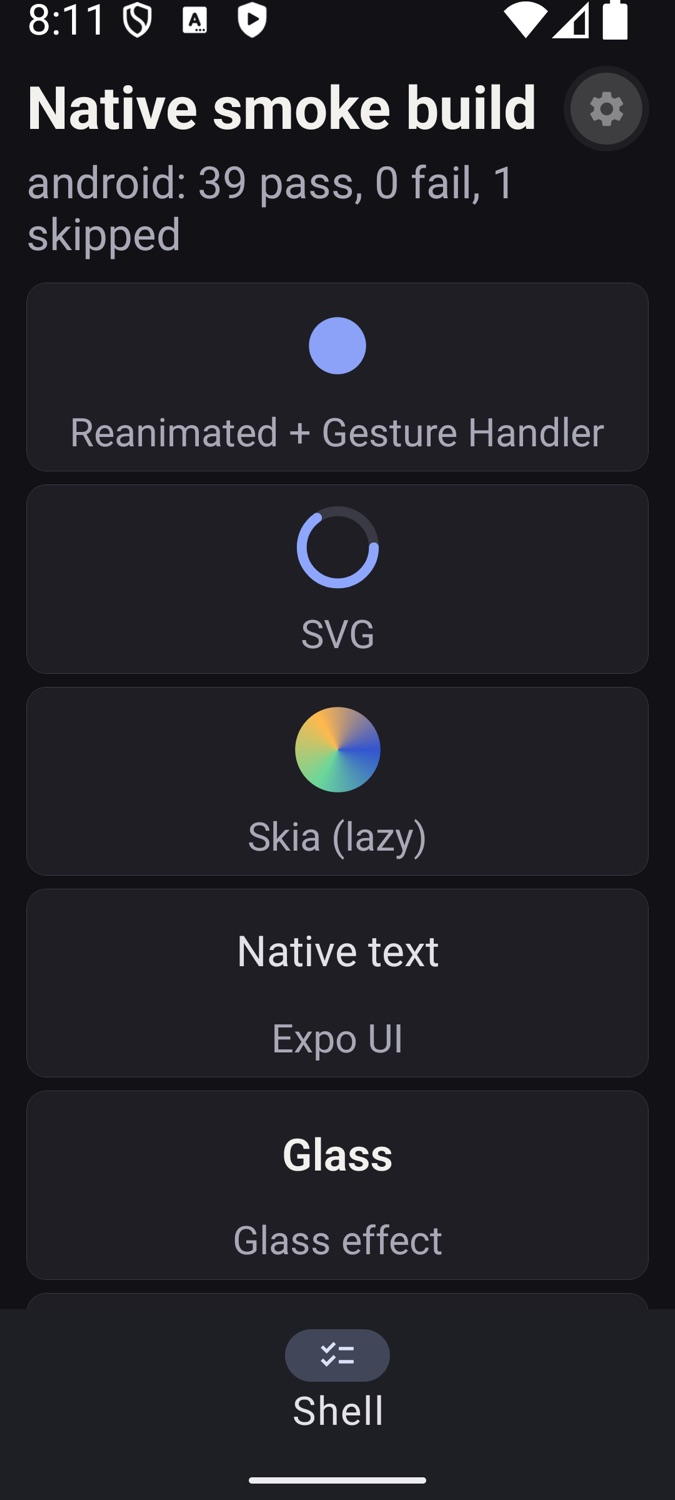
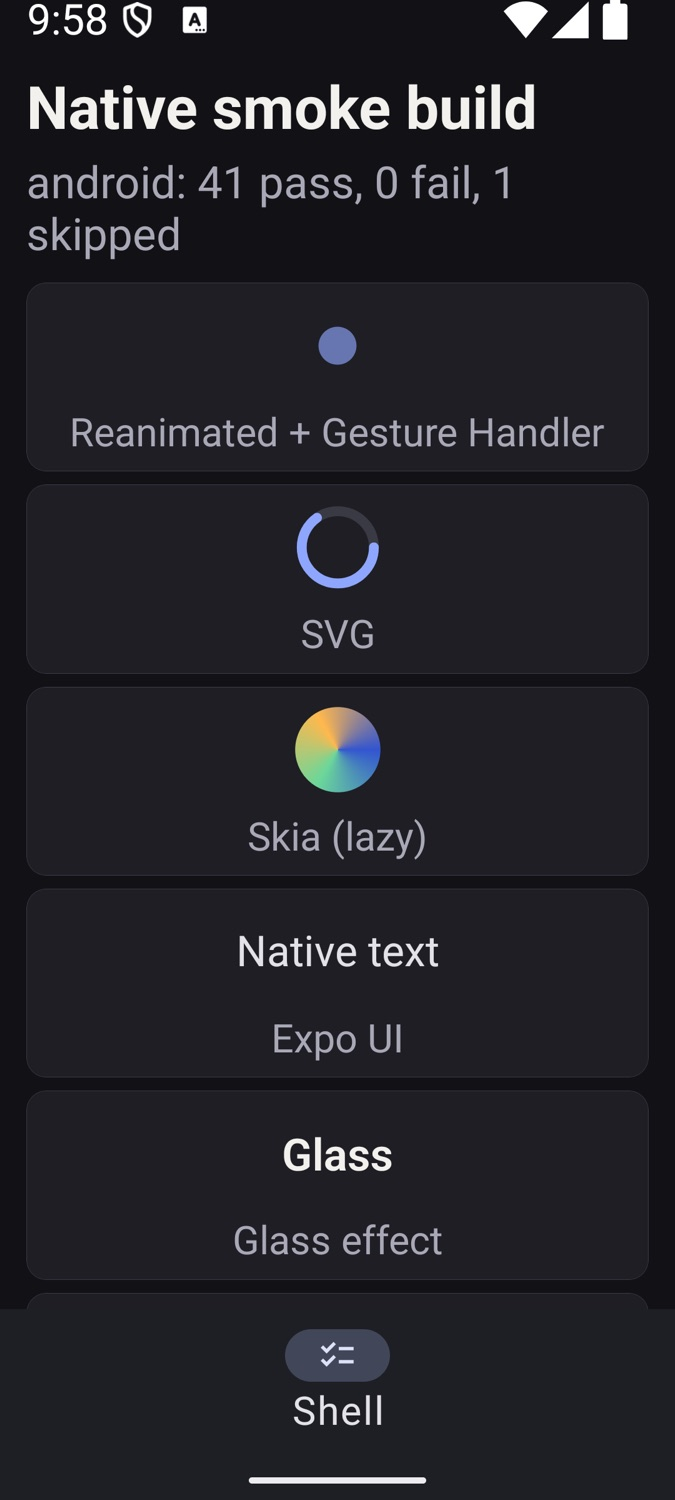
chore(mobile): take Expo's new pin and record the release builds of the merged code (FND-05)
expo-web-browser moves to ~58.1.0, the smoke report is logged one line per
check, and the evidence, ADR 0006 and the plan now describe the release
builds of 2026-11-23 on iOS and Android and the web export.

diff --git a/apps/mobile/src/smoke/smoke-screen.tsx b/apps/mobile/src/smoke/smoke-screen.tsx
@@ -23,15 +23,12 @@ export function SmokeScreen() {
       ])
       .then((finished) => {
         // The same report as text, for the build evidence: Metro's log in a debug build,
-        // `adb logcat -s ReactNativeJS` or Console.app in a release build.
-        console.info(
-          [
-            `[smoke] ${currentPlatform}: ${summarise(finished)}`,
-            ...finished.map(
-              ({ status, label, detail }) => `[smoke] ${status} | ${label} | ${detail}`,
-            ),
-          ].join('\n'),
-        );
+        // `adb logcat -s ReactNativeJS` or the simulator's log stream in a release build.
+        // One line per call, because iOS cuts a log message off at 1,024 bytes.
+        console.info(`[smoke] ${currentPlatform}: ${summarise(finished)}`);
+        for (const { status, label, detail } of finished) {
+          console.info(`[smoke] ${status} | ${label} | ${detail}`);
+        }
         if (current) setResults(finished);
       })
       .catch(() => undefined);

diff --git a/docs/plans/FND-05-evidence/README.md b/docs/plans/FND-05-evidence/README.md
@@ -1,6 +1,6 @@
 # FND-05 (local half): build evidence
 
-Collected on 2026-11-15 on one Mac (Apple silicon, macOS 27.2). Nothing here used an account, a key or a secret.
+Collected on one Mac (Apple silicon, macOS 27.2) in two sittings: 2026-11-15 and, after `main` was merged in, 2026-11-23. Nothing here used an account, a key or a secret.
 
 | | |
 |---|---|
@@ -13,60 +13,69 @@ Collected on 2026-11-15 on one Mac (Apple silicon, macOS 27.2). Nothing here use
 
 ## Result
 
-| Build | Command | Result | Smoke report |
-|---|---|---|---|
-| iOS, debug | `expo run:ios` | `› Build Succeeded` | 40 pass, 0 fail, 0 skipped: [`smoke-ios-debug.txt`](smoke-ios-debug.txt) |
-| Android, debug | `expo run:android --variant debug` | `BUILD SUCCESSFUL in 6m 19s` | 39 pass, 0 fail, 1 skipped: [`smoke-android-debug.txt`](smoke-android-debug.txt) |
-| Android, release, all ABIs | `expo run:android --variant release` | `BUILD SUCCESSFUL in 12m 16s`, 187 MB APK | 16 KB check below |
-| Android, release, arm64 | `./gradlew :app:assembleRelease -PreactNativeArchitectures=arm64-v8a` | `BUILD SUCCESSFUL in 38s` (incremental), 64 MB APK | 39 pass, 0 fail, 1 skipped, Metro stopped: [`smoke-android-release.txt`](smoke-android-release.txt) |
-| Web | `pnpm --filter @repo/mobile web:export` | `Exported: dist` (server output) | 31 pass, 0 fail, 9 skipped, served with `expo serve`: [`smoke-web.txt`](smoke-web.txt) |
+The release builds and the web export are of the pull request's final code. Each started from `expo prebuild --clean`.
 
-The one skip on Android is Sign in with Apple (iOS only). The nine on web are native-only libraries.
+| Build | Date | Command | Result | Smoke report |
+|---|---|---|---|---|
+| iOS, release, simulator | 11-23 | `expo run:ios --configuration Release` | `› Build Succeeded` | 42 pass, 0 fail, 0 skipped: [`smoke-ios-release.txt`](smoke-ios-release.txt) |
+| Android, release, arm64 | 11-23 | `./gradlew :app:assembleRelease -PreactNativeArchitectures=arm64-v8a` | `BUILD SUCCESSFUL in 11m 1s`, 64 MB APK | 41 pass, 0 fail, 1 skipped: [`smoke-android-release.txt`](smoke-android-release.txt) |
+| Web | 11-23 | `pnpm --filter @repo/mobile web:export`, then `expo serve` | `Exported: dist` (server output) | 33 pass, 0 fail, 9 skipped: [`smoke-web.txt`](smoke-web.txt) |
+| iOS, debug (development build) | 11-15 | `expo run:ios` | `› Build Succeeded` | 40 pass, 0 fail, 0 skipped: [`smoke-ios-debug.txt`](smoke-ios-debug.txt) |
+| Android, debug (development build) | 11-15 | `expo run:android --variant debug` | `BUILD SUCCESSFUL in 6m 19s` | 39 pass, 0 fail, 1 skipped: [`smoke-android-debug.txt`](smoke-android-debug.txt) |
+| Android, release, all ABIs | 11-15 | `expo run:android --variant release` | `BUILD SUCCESSFUL in 12m 16s`, 187 MB APK | 16 KB check below |
 
-`expo install --check`: "Dependencies are up to date". `expo-doctor`: "20/20 checks passed. No issues detected!". `pnpm verify`: green (28 Vitest tests, 13 Jest tests).
+Both release apps were launched with no Metro server running. The one skip on Android is Sign in with Apple (iOS only); the nine on web are native-only libraries.
+
+The debug builds predate the merge of `main`. Since then the app gained two checks (the quiz-engine fixtures and the game-rules dates, which is why the counts differ by two), took Expo's new pin for `expo-web-browser` (58.0.8 to 58.1.0), and moved Better Auth and i18next back one or two patches (see `versions.md`). The development client itself was not rebuilt after the merge.
+
+`expo install --check` (11-23): "Dependencies are up to date". `expo-doctor` (11-23): "20/20 checks passed. No issues detected!".
+
+## Shared packages on Hermes (asked for by the PM)
+
+Read from the release builds, so this is Hermes bytecode with no dev server. Identical on iOS and Android:
+
+| Check | Result |
+|---|---|
+| `runSharedFixtures()` from `@repo/quiz-engine/fixtures` (ENG-02) | `127 fixtures ran, 0 failed` |
+| `localDateOf` from `@repo/game-rules` (ENG-03, ADR 0005) | `2026-01-02 2026-06-16 2026-03-07 2026-03-08 2026-03-08 2026-03-09 2026-10-31 2026-11-01 2026-11-01 2026-11-02; unknown zone: RangeError; empty zone: RangeError` |
+| `Intl.DateTimeFormat('en-US', { timeZone, year, month: '2-digit', day: '2-digit' })` | `Kathmandu 01/02/2026, Los Angeles 12/31/2025` |
+| Regex literals with the `u` flag: `\p{L}`, `\p{M}`, `\p{Z}`, `\p{Cc}`, `\p{Cf}`, `\p{Cs}` | pass (each matches its sample and rejects `1`) |
+| `Object.hasOwn`, `Array.prototype.at`, `'é'.normalize('NFD').length === 2` | pass |
+| zod 4.6.7: `z.strictObject` and `z.discriminatedUnion` | pass (accepts the valid value, rejects an unknown key and an unknown discriminator) |
+
+The ten dates are, in order: Kathmandu (a 45-minute offset) at 18:30 UTC on 1 January; Kiritimati (+14:00) from ADR 0005's own example; then the minute before and the minute of local midnight in Los Angeles on each side of the 8 March and 1 November 2026 clock changes. They match Node 26.13.1 exactly (`src/smoke/hermes-probes.test.ts` runs the same probes on Node).
+
+One thing Hermes does not have: `Intl.PluralRules` (and `Intl.Locale`). The i18n row reads "PluralRules polyfilled" on both native platforms and "built in" on web.
 
 ## Screenshots
 
 | | Light, default text | Dark, largest text |
 |---|---|---|
-| iOS (debug build) | [`ios-light.jpg`](ios-light.jpg) | [`ios-dark-largest.jpg`](ios-dark-largest.jpg) (`accessibility-extra-extra-extra-large`) |
-| Android | [`android-light.jpg`](android-light.jpg) (release build, no Metro) | [`android-dark-largest.jpg`](android-dark-largest.jpg) (debug build, font scale 2.0) |
+| iOS (release build) | [`ios-light.jpg`](ios-light.jpg) | [`ios-dark-largest.jpg`](ios-dark-largest.jpg) (`accessibility-extra-extra-extra-large`) |
+| Android (release build) | [`android-light.jpg`](android-light.jpg) | [`android-dark-largest.jpg`](android-dark-largest.jpg) (font scale 2.0) |
 | Web | [`web.jpg`](web.jpg) (480 px wide) | |
 
 [`android-expo-observe-without-project-id.jpg`](android-expo-observe-without-project-id.jpg) is the failure ADR 0009 records.
 
-The reports are the app's own output: the placeholder screen runs one check per library and logs the result (`[smoke] …`). They were read from Metro's log (debug builds), `adb logcat -s ReactNativeJS` (release build) and the browser console (web).
+The reports are the app's own output: the placeholder screen runs one check per library and logs each result (`[smoke] …`). They were read from `adb logcat -s ReactNativeJS` (Android release), `xcrun simctl spawn booted log stream` (iOS release), Metro's log (debug builds) and the browser console (web).
 
 ## Android 16 KB page size
 
 `apps/mobile/scripts/check-page-size.sh` runs the two checks Android's page-size guide gives: `zipalign -c -P 16 -v 4`, and the alignment of every `LOAD` segment in every 64-bit library (`llvm-objdump -p`, 2**14 or more).
 
-On the all-ABI release APK, full output in [`page-size-check.txt`](page-size-check.txt):
+On the release APK that was launched (11-23, arm64), full output in [`page-size-check.txt`](page-size-check.txt):
 
 ```
-== 1. zipalign -c -P 16 -v 4 ==
-1795 entries OK
-Verification successful
+PASS: all 38 64-bit libraries are 16 KB aligned, and the APK is zip-aligned for 16 KB pages
+```
 
+On the all-ABI release APK (11-15, so before the merge; it adds the x86_64 libraries), full output in [`page-size-check-all-abis-2026-11-15.txt`](page-size-check-all-abis-2026-11-15.txt):
+
+```
 PASS: all 76 64-bit libraries are 16 KB aligned, and the APK is zip-aligned for 16 KB pages
 ```
 
-The arm64-only APK that was launched passes the same check (38 libraries). The emulator itself has 4 KB pages (`adb shell getconf PAGE_SIZE` → `4096`), so nothing here ran on a 16 KB device: see "Not proven".
-
-## Hermes probes (asked for by the PM for ENG-01, ENG-02 and ENG-03)
-
-Same result on iOS (debug) and Android (debug and release), both on Hermes:
-
-| Probe | Result |
-|---|---|
-| Regex literals with the `u` flag: `\p{L}`, `\p{M}`, `\p{Z}`, `\p{Cc}`, `\p{Cf}`, `\p{Cs}` | pass (each matches its sample and rejects `1`) |
-| `Object.hasOwn` | pass |
-| `Array.prototype.at` | pass |
-| `'é'.normalize('NFD').length === 2` | pass |
-| zod 4.6.7: `z.strictObject` and `z.discriminatedUnion` | pass (accepts the valid value, rejects an unknown key and an unknown discriminator) |
-| `Intl.DateTimeFormat('en-US', { timeZone, year, month: '2-digit', day: '2-digit' })` | pass: `Kathmandu 01/02/2026, Los Angeles 12/31/2025` |
-
-One thing Hermes does not have: `Intl.PluralRules` (and `Intl.Locale`). The i18n row reads "PluralRules polyfilled" on both native platforms and "built in" on web.
+The emulator itself has 4 KB pages (`adb shell getconf PAGE_SIZE` gives `4096`), so nothing here ran on a 16 KB device: see "Not proven".
 
 ## Things the build commands did that the plan didn't expect
 
@@ -75,15 +84,19 @@ Each is either fixed in this pull request or recorded in an ADR.
 - **`expo-observe` crashes Android at start-up without an EAS project id.** Removed (ADR 0009).
 - **`expo run:ios` refuses to build for a simulator** when the app has the Sign in with Apple entitlement and the Mac has no signing certificate ("No code signing certificates are available to use"). The entitlement is stripped until the Apple account exists (ADR 0010).
 - **A plain Gradle release build failed** at `:app:createBundleReleaseJsAndAssets` with "Cannot find module 'babel-preset-expo'". Under pnpm's isolated `node_modules` the app can only resolve its own dependencies, and `babel.config.js` names that preset. `expo run:android` hides this because Expo CLI bundles the JavaScript itself. EAS Build runs plain Gradle, so it would have failed there. Fixed by making `babel-preset-expo` a dev dependency of the app.
+- **Gradle doesn't rebuild the JavaScript bundle when only a dependency changes.** After a version change in `node_modules` the bundle task reported `UP-TO-DATE` and the APK kept the old code. Run `expo prebuild --clean`, or Gradle with `--rerun-tasks`, after changing a dependency.
+- **pnpm wrote release-age exemptions into `pnpm-workspace.yaml` by itself** for two libraries published the same day. Removed (ADR 0006).
+- **Expo's pins moved between the two sittings**: `expo install --check` asked for `expo-web-browser` ~58.1.0 on 11-23. Taken with `expo install --fix` before the release builds.
 - **`expo run:android` builds and installs, then fails to launch**: it looks for `com.dailyquizshell` (derived from the slug) and not the configured `dev.dailyquiz.shell`. Launching by hand works: `adb shell am start -a android.intent.action.VIEW -d "dailyquiz://expo-development-client/?url=http%3A%2F%2Flocalhost%3A8081"` after `adb reverse tcp:8081 tcp:8081`.
-- **Installing on the emulator failed twice with `INSTALL_FAILED_INSUFFICIENT_STORAGE`**: the emulator's data partition had about 540 MB free. The debug APK installed after the old copy was removed; the 187 MB all-ABI release APK did not fit, which is why the launched release APK is arm64-only.
+- **Installing on the emulator failed twice with `INSTALL_FAILED_INSUFFICIENT_STORAGE`**: its data partition had about 540 MB free. The 187 MB all-ABI release APK did not fit, which is why the launched release APK is arm64-only.
+- **iOS cuts a log message off at 1,024 bytes**, so the smoke report is logged one line per check.
 - **Gradle downloaded Android platform 37 and build-tools 37.0.0** into the SDK folder by itself.
-- The first attempts lost about fifteen minutes to a network outage (Gradle's distribution download timed out twice; a CocoaPods download stalled). No code was involved.
 
 ## Not proven
 
 - A launch on a 16 KB-page device or emulator. It needs the image `system-images;android-36;google_apis_ps16k;arm64-v8a`, which is the owner's to install.
 - A physical iPhone or Android phone.
-- An iOS release build. The iOS JavaScript was only run in the debug build.
+- An x86_64 Android build of the final code (the all-ABI build is from 11-15).
+- The development builds on the final code (they are from 11-15).
 - Anything that needs an account: EAS Build, EAS Update, `expo-observe`, Sentry and PostHog reporting, sign-in with Apple or Google, push tokens.
 - Gesture Handler beyond one pan gesture, and Skia beyond one canvas.

diff --git a/docs/plans/FND-05-evidence/versions.md b/docs/plans/FND-05-evidence/versions.md
@@ -1,8 +1,8 @@
 # FND-05: resolved versions
 
-Generated on 2026-11-15 from `pnpm-lock.yaml` with `pnpm --filter @repo/mobile ls --depth 0 --json`. "Declared" is the range in `apps/mobile/package.json`; "Resolved" is what the lockfile installs.
+Generated on 2026-11-23 from `pnpm-lock.yaml` with `pnpm --filter @repo/mobile ls --depth 0 --json`. "Declared" is the range in `apps/mobile/package.json`; "Resolved" is what the lockfile installs, and what the release builds and the web export of 2026-11-23 were made from.
 
-The native builds in this folder were made from exactly these versions, with two exceptions that hold no native code: the first builds bundled Better Auth 1.7.25 and i18next 27.1.2, which pnpm's one-day minimum release age then rejected (ADR 0006). The Android release build, the web export and the iOS debug run were repeated on the versions below.
+The development builds of 2026-11-15 differ in three packages: `expo-web-browser` 58.0.8 (Expo has since moved its pin), and Better Auth 1.7.25 and i18next 27.1.2, which pnpm's one-day minimum release age rejected (ADR 0006). They also predate the two workspace packages.
 
 ## Dependencies
 
@@ -10,28 +10,30 @@ The native builds in this folder were made from exactly these versions, with two
 |---|---|---|
 | `@better-auth/expo` | `1.7.23` | 1.7.23 |
 | `@expo/metro-runtime` | `~58.0.17` | 58.0.17 |
-| `@expo/ui` | `~58.0.28` | 58.0.28 |
-| `@formatjs/intl-locale` | `^5.4.3` | 5.4.3 |
-| `@formatjs/intl-pluralrules` | `^7.0.4` | 7.0.4 |
+| `@expo/ui` | `~58.0.28` | 58.0.29 |
+| `@formatjs/intl-locale` | `^5.4.3` | 5.5.0 |
+| `@formatjs/intl-pluralrules` | `^7.0.4` | 7.1.0 |
 | `@react-native-google-signin/google-signin` | `17.0.0` | 17.0.0 |
-| `@sentry/react-native` | `~8.28.0` | 8.28.0 |
+| `@repo/game-rules` | `workspace:*` | workspace |
+| `@repo/quiz-engine` | `workspace:*` | workspace |
+| `@sentry/react-native` | `~8.28.0` | 8.28.1 |
 | `@shopify/flash-list` | `2.3.2` | 2.3.2 |
 | `@shopify/react-native-skia` | `2.14.0` | 2.14.0 |
-| `@tanstack/query-async-storage-persister` | `^5.107.1` | 5.107.1 |
-| `@tanstack/react-query` | `^5.107.1` | 5.107.1 |
-| `@tanstack/react-query-persist-client` | `^5.107.1` | 5.107.1 |
+| `@tanstack/query-async-storage-persister` | `^5.107.1` | 5.108.2 |
+| `@tanstack/react-query` | `^5.107.1` | 5.108.2 |
+| `@tanstack/react-query-persist-client` | `^5.107.1` | 5.108.2 |
 | `@xstate/react` | `^6.1.0` | 6.1.0 |
 | `better-auth` | `1.7.23` | 1.7.23 |
-| `expo` | `~58.0.25` | 58.0.25 |
+| `expo` | `~58.0.25` | 58.0.26 |
 | `expo-apple-authentication` | `~58.0.3` | 58.0.3 |
 | `expo-application` | `~58.1.2` | 58.1.2 |
 | `expo-asset` | `~58.0.21` | 58.0.21 |
 | `expo-audio` | `~58.0.12` | 58.0.12 |
 | `expo-constants` | `~58.0.16` | 58.0.16 |
 | `expo-crypto` | `~58.0.8` | 58.0.8 |
-| `expo-dev-client` | `~58.0.20` | 58.0.20 |
+| `expo-dev-client` | `~58.0.20` | 58.0.21 |
 | `expo-device` | `~58.0.5` | 58.0.5 |
-| `expo-file-system` | `~58.0.13` | 58.0.13 |
+| `expo-file-system` | `~58.0.13` | 58.0.14 |
 | `expo-font` | `~58.0.12` | 58.0.12 |
 | `expo-glass-effect` | `~58.0.5` | 58.0.5 |
 | `expo-haptics` | `~58.0.8` | 58.0.8 |
@@ -40,7 +42,7 @@ The native builds in this folder were made from exactly these versions, with two
 | `expo-localization` | `~58.0.5` | 58.0.5 |
 | `expo-network` | `~58.0.5` | 58.0.5 |
 | `expo-notifications` | `~58.1.9` | 58.1.9 |
-| `expo-router` | `~58.0.31` | 58.0.31 |
+| `expo-router` | `~58.0.31` | 58.0.32 |
 | `expo-secure-store` | `~58.0.3` | 58.0.3 |
 | `expo-sharing` | `~58.0.23` | 58.0.23 |
 | `expo-splash-screen` | `~58.0.14` | 58.0.14 |
@@ -49,14 +51,14 @@ The native builds in this folder were made from exactly these versions, with two
 | `expo-system-ui` | `~58.0.7` | 58.0.7 |
 | `expo-updates` | `~58.0.22` | 58.0.22 |
 | `expo-video` | `~58.0.14` | 58.0.14 |
-| `expo-web-browser` | `~58.0.8` | 58.0.8 |
-| `i18next` | `^27.1.1` | 27.1.1 |
-| `i18next-icu` | `^2.7.0` | 2.7.0 |
-| `intl-messageformat` | `^12.1.5` | 12.1.5 |
+| `expo-web-browser` | `~58.1.0` | 58.1.0 |
+| `i18next` | `^27.1.1` | 27.2.4 |
+| `i18next-icu` | `^2.7.0` | 2.7.1 |
+| `intl-messageformat` | `^12.1.5` | 12.2.0 |
 | `posthog-react-native` | `4.86.0` | 4.86.0 |
 | `react` | `19.3.0` | 19.3.0 |
 | `react-dom` | `19.3.0` | 19.3.0 |
-| `react-i18next` | `^18.0.1` | 18.0.1 |
+| `react-i18next` | `^18.0.1` | 18.0.3 |
 | `react-native` | `0.88.1` | 0.88.1 |
 | `react-native-gesture-handler` | `~3.3.0` | 3.3.0 |
 | `react-native-mmkv` | `4.3.2` | 4.3.2 |
@@ -69,7 +71,7 @@ The native builds in this folder were made from exactly these versions, with two
 | `react-native-web` | `^0.21.4` | 0.21.4 |
 | `react-native-worklets` | `0.13.0` | 0.13.0 |
 | `xstate` | `^5.33.4` | 5.33.4 |
-| `zod` | `^4.6.7` | 4.6.7 |
+| `zod` | `catalog:` | 4.6.7 |
 | `zustand` | `^5.1.0` | 5.1.0 |
 
 ## Development dependencies
@@ -80,8 +82,8 @@ The native builds in this folder were made from exactly these versions, with two
 | `@react-native/jest-preset` | `0.88.1` | 0.88.1 |
 | `@testing-library/react-native` | `^14.1.0` | 14.1.0 |
 | `@types/react` | `~19.3.0` | 19.3.0 |
-| `babel-preset-expo` | `~58.0.25` | 58.0.25 |
+| `babel-preset-expo` | `~58.0.25` | 58.0.26 |
 | `jest` | `^30.5.2` | 30.5.2 |
-| `jest-expo` | `~58.0.14` | 58.0.14 |
+| `jest-expo` | `~58.0.14` | 58.0.15 |
 | `test-renderer` | `^1.3.1` | 1.3.1 |
 | `typescript` | `~6.0.3` | 6.0.3 |

diff --git a/docs/adr/0006-mobile-native-baseline-on-sdk-58.md b/docs/adr/0006-mobile-native-baseline-on-sdk-58.md
@@ -3,7 +3,7 @@
 | | |
 |---|---|
 | **Status** | Proposed |
-| **Date** | 2026-11-15 |
+| **Date** | 2026-11-15, updated 2026-11-23 |
 | **Ticket** | `FND-05` (local half) |
 | **Requirements** | Spec §18.2; roadmap §3.1 (mobile table), §9 ("A library isn't ready for React Native 0.88") |
 
@@ -11,12 +11,13 @@
 
 Roadmap §3.1 lists the app's libraries with versions checked on 2026-11-14, and §9 names the risk that some don't yet work on React Native 0.88. Several libraries make no statement about 0.88, and in a few places the library's own documentation disagrees with the version Expo pins for SDK 58.
 
-FND-05 built all of them together in `apps/mobile` and ran each one on a device. On 2026-11-15, with Expo 58.0.25, React Native 0.88.1, React 19.3.0, Xcode 26.6, JDK 17.0.19, NDK 27.1.12297006 and Node 26.13.1:
+FND-05 built all of them together in `apps/mobile` and ran each one on a device, with Expo 58.0.25, React Native 0.88.1, React 19.3.0, Xcode 26.6, JDK 17.0.19, NDK 27.1.12297006 and Node 26.13.1:
 
-- iOS debug build on an iPhone 17 Pro simulator (iOS 26.5): 40 checks pass.
-- Android debug and release builds on an API 36 emulator: 39 pass, 1 skipped (Sign in with Apple is iOS only). The release APK ran with Metro stopped.
-- Web export with `web.output: "server"`, served and loaded in a browser: 31 pass, 9 skipped (native-only libraries).
+- iOS on an iPhone 17 Pro simulator (iOS 26.5): the development build on 2026-11-15, 40 checks pass; a release build of the final code on 2026-11-23, 42 pass.
+- Android on an API 36 emulator: the development build on 2026-11-15, 39 pass and 1 skipped (Sign in with Apple is iOS only); a release build of the final code on 2026-11-23, 41 pass and 1 skipped. The release APKs ran with Metro stopped.
+- Web export with `web.output: "server"`, served and loaded in a browser on 2026-11-23: 33 pass, 9 skipped (native-only libraries).
 - The Android release APK passes the 16 KB page-size check.
+- On Hermes, in the release builds on both platforms, `@repo/quiz-engine`'s 127 shared fixtures all pass and `@repo/game-rules` returns the same local dates as Node 26.13.1 for a 45-minute offset, +14:00 and both 2026 clock changes in Los Angeles, and throws `RangeError` for an unknown zone. That answers the check ADR 0005 asked for.
 
 The commands, logs, screenshots and per-library results are in `docs/plans/FND-05-evidence/`. Every resolved version is in `docs/plans/FND-05-evidence/versions.md`, generated from the lockfile.
 
@@ -58,6 +59,8 @@ What later tickets must know, all found by running the shell:
 - **Never `await import('react-native')`.** Enumerating the module touches its deprecated getters and throws on iOS (`new NativeEventEmitter()` requires a non-null argument). Import from it statically.
 - **pnpm and Babel.** `babel-preset-expo` must be a dev dependency of the app. `babel.config.js` names it, and under pnpm's isolated `node_modules` a plain Gradle release build (which is what EAS runs) can't resolve it otherwise: `:app:createBundleReleaseJsAndAssets` fails with "Cannot find module 'babel-preset-expo'". `expo run:android` hides the problem because Expo CLI bundles the JavaScript itself. The same rule applies to any Babel plugin the config names.
 - **Release age.** pnpm 11 refuses packages published less than a day ago. When a too-new version is requested by name it installs it anyway and quietly writes a `minimumReleaseAgeExclude` entry into `pnpm-workspace.yaml`. That happened here for Better Auth 1.7.25 and i18next 27.1.2; the entries were removed and the versions moved back to 1.7.23 and 27.1.1. Check `pnpm-workspace.yaml` in the diff after adding a dependency, and take the newest version that is at least a day old.
+- **Stale bundles.** Gradle's JavaScript bundle task tracks the app's own files, not `node_modules`. After a dependency changes, a release build can report the bundle `UP-TO-DATE` and ship the old code. Run `expo prebuild --clean`, or Gradle with `--rerun-tasks`.
+- **Expo's pins move inside an SDK.** Between 2026-11-15 and 2026-11-23 the pin for `expo-web-browser` went from ~58.0.8 to ~58.1.0. Run `expo install --check` before a release build and take what it asks for with `expo install --fix`.
 - **Install scripts.** pnpm 11 fails the install until each script is decided. `@sentry/cli` and `@parcel/watcher` are set to `false` in `pnpm-workspace.yaml`; the EAS half turns `@sentry/cli` on when source-map upload is wired.
 - **Expo CLI on this setup.** `expo run:ios --device "<simulator name>"` and `expo run:android`'s launch step both misbehave (details in the evidence README); neither affects the build.
 - `expo-updates` reports `isEnabled: true` inside a development build even with `updates.enabled: false`, because the development client loads through it. The release build is the one to read.

diff --git a/apps/mobile/README.md b/apps/mobile/README.md
@@ -15,6 +15,11 @@ pnpm exec expo run:ios                        # boot a simulator first; don't pa
 JAVA_HOME=/opt/homebrew/opt/openjdk@17/libexec/openjdk.jdk/Contents/Home \
   pnpm exec expo run:android --variant debug  # start an emulator first
 pnpm run web:export && pnpm exec expo serve   # web: export, then serve dist/
+
+# Release builds, which need no dev server:
+pnpm exec expo run:ios --configuration Release
+JAVA_HOME=/opt/homebrew/opt/openjdk@17/libexec/openjdk.jdk/Contents/Home \
+  pnpm exec sh -c 'cd android && ./gradlew :app:assembleRelease -PreactNativeArchitectures=arm64-v8a'
 ```
 
 You need Xcode 26.4 or later with CocoaPods, and JDK 17 with the Android SDK (Gradle fetches the platform and build-tools it needs).
@@ -23,7 +28,8 @@ Known rough edges on Expo CLI 58.1.20:
 
 - `expo run:android` builds and installs, then fails its own launch step. Start the dev server with `pnpm start`, then open the app by hand:
   `adb reverse tcp:8081 tcp:8081 && adb shell am start -a android.intent.action.VIEW -d "dailyquiz://expo-development-client/?url=http%3A%2F%2Flocalhost%3A8081"`.
-- After changing `app.config.ts` or a native dependency, run `expo prebuild --clean` again.
+- After changing `app.config.ts` or any dependency, run `expo prebuild --clean` again: Gradle doesn't notice a changed dependency and reuses the old JavaScript bundle.
+- The smoke report is also logged, one `[smoke]` line per check: `adb logcat -s ReactNativeJS`, or `xcrun simctl spawn booted log stream --level info --predicate 'eventMessage CONTAINS "[smoke]"'`.
 
 ## Checks
 

diff --git a/docs/plans/FND-05.md b/docs/plans/FND-05.md
@@ -146,3 +146,6 @@ Each entry in `checks.ts` loads its library with `await import()` inside `run` a
 7. **iOS was built with `expo run:ios` and no `--device` flag**, on the booted iPhone 17 Pro.
 8. **No `metro.config.js`.** Expo's default Metro configuration handles the pnpm workspace without one.
 9. **Better Auth is pinned to 1.7.23 and i18next resolves to 27.1.1**, not the newest patches: those were under pnpm's one-day minimum release age (ADR 0006).
+10. **`main` was merged in on 2026-11-23** (80 commits). At the PM's request the shell then took `@repo/quiz-engine` and `@repo/game-rules` as workspace dependencies, and the smoke screen runs `runSharedFixtures()` and `localDateOf` on Hermes. `zod` comes from the workspace catalog.
+11. **Release builds on both platforms** replaced the debug builds as the evidence for the final code: iOS with `expo run:ios --configuration Release` on the simulator, Android with plain Gradle. The development builds are from 2026-11-15.
+12. **`expo-web-browser` moved to Expo's new pin** (~58.1.0) before those builds.
